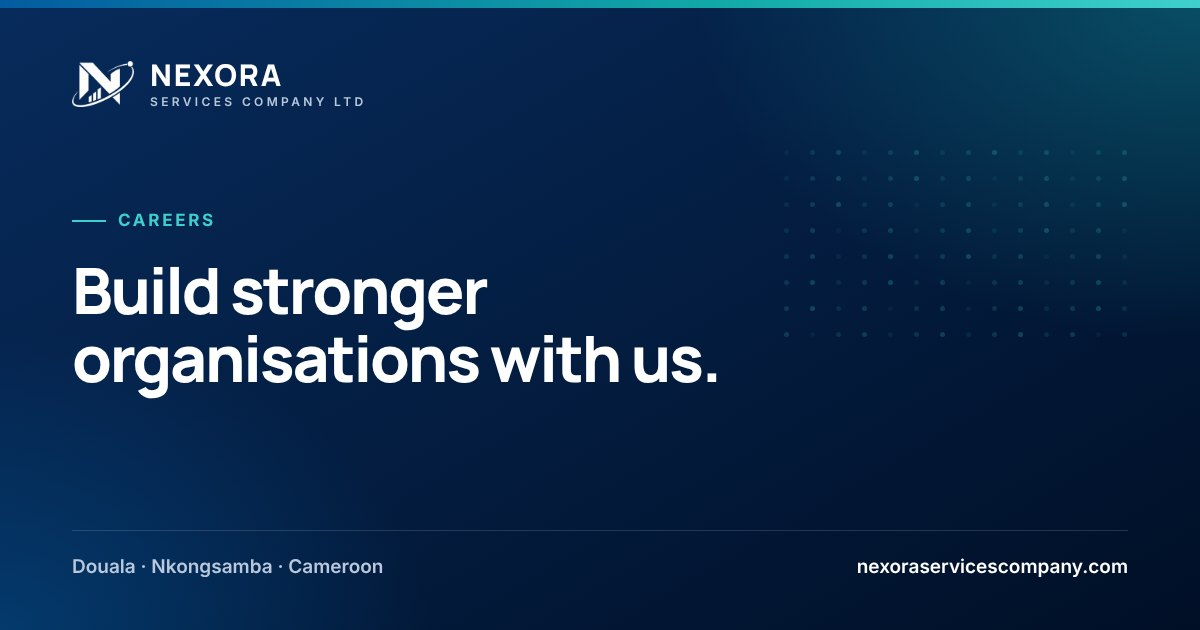
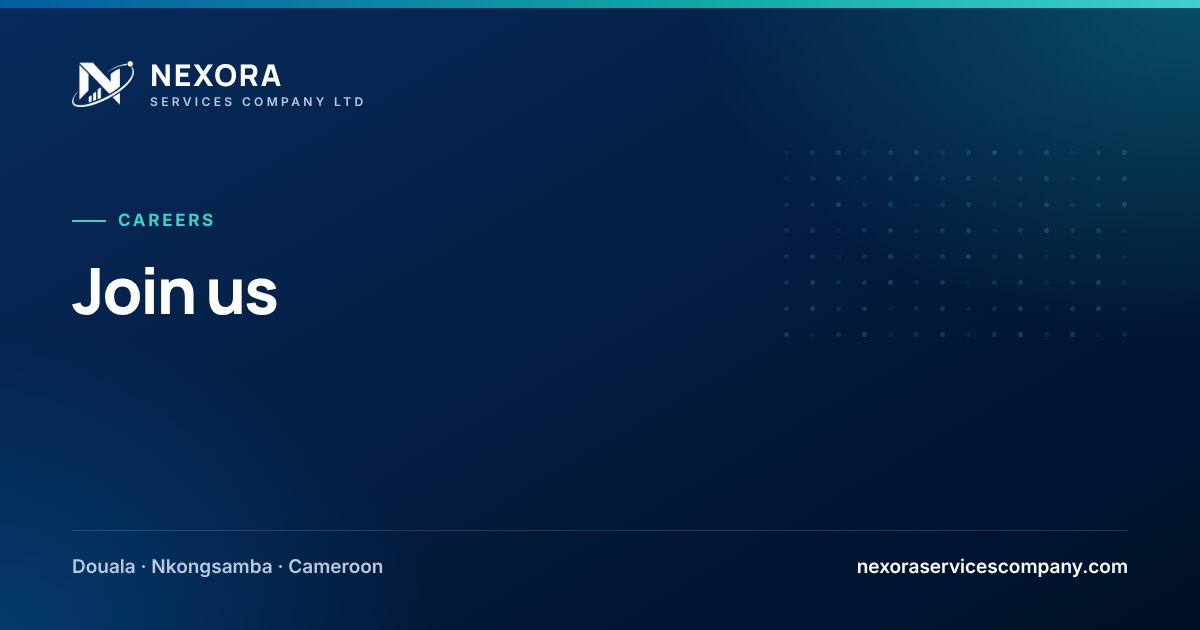
Use Rejoignez-nous / Join us as the careers page heading
Claude-Session: https://claude.ai/code/session_012e1XfnthsJcVzEqrUws3S3

Changed region(s): [[0.0617, 0.4222, 0.5858, 0.6333]]

diff --git a/src/i18n/careers.ts b/src/i18n/careers.ts
@@ -31,8 +31,8 @@ export const jobs: Job[] = [];
 
 const fr = {
   meta: { title: 'Carrières · Rejoindre Nexora Services Company Ltd', description: 'Les offres d’emploi et de stage de Nexora à Douala et Nkongsamba, et la candidature spontanée pour rejoindre notre équipe.' },
-  eyebrow: 'Carrières', title: 'Construisez avec nous des entreprises plus solides.',
-  lede: 'Nous recherchons des personnes rigoureuses, curieuses et fiables pour accompagner nos clients en conseil, en RH, en voyages et au comptoir. Consultez nos offres ou envoyez-nous une candidature spontanée.',
+  eyebrow: 'Carrières', title: 'Rejoignez-nous',
+  lede: 'Construisez avec nous des entreprises plus solides. Nous recherchons des personnes rigoureuses, curieuses et fiables pour accompagner nos clients en conseil, en RH, en voyages et au comptoir. Consultez nos offres ou envoyez-nous une candidature spontanée.',
   whyEyebrow: 'Pourquoi Nexora', whyTitle: 'Un cabinet où l’on apprend vite',
   why: [
     { icon: 'chart', name: 'Un vrai impact', text: 'Vous travaillez sur des problèmes concrets de PME, d’ONG et d’institutions, et vous voyez le résultat.' },
@@ -81,8 +81,8 @@ const fr = {
 
 const en: typeof fr = {
   meta: { title: 'Careers · Join Nexora Services Company Ltd', description: 'Nexora’s job and internship openings in Douala and Nkongsamba, and open applications to join our team.' },
-  eyebrow: 'Careers', title: 'Build stronger organisations with us.',
-  lede: 'We are looking for rigorous, curious and reliable people to support our clients in consulting, HR, travel and at our counter. Browse our openings or send us an open application.',
+  eyebrow: 'Careers', title: 'Join us',
+  lede: 'Build stronger organisations with us. We are looking for rigorous, curious and reliable people to support our clients in consulting, HR, travel and at our counter. Browse our openings or send us an open application.',
   whyEyebrow: 'Why Nexora', whyTitle: 'A consultancy where you learn fast',
   why: [
     { icon: 'chart', name: 'Real impact', text: 'You work on concrete problems for SMEs, NGOs and institutions, and you see the result.' },
